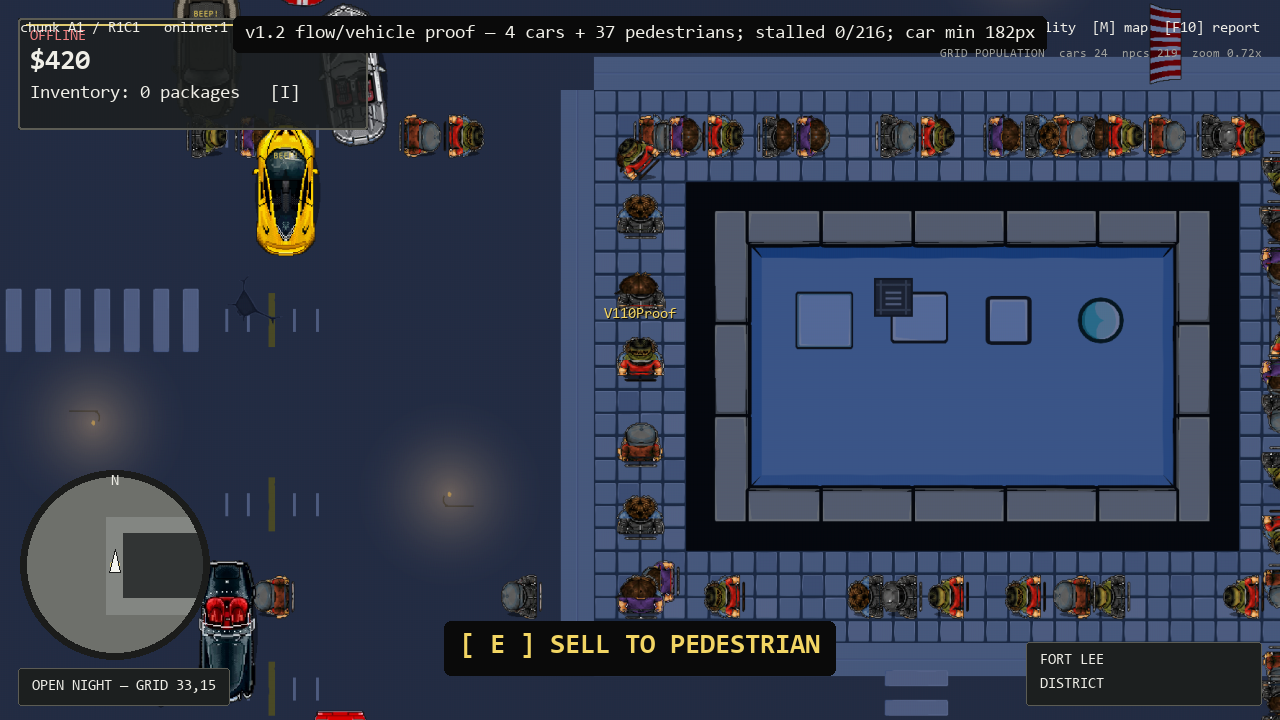
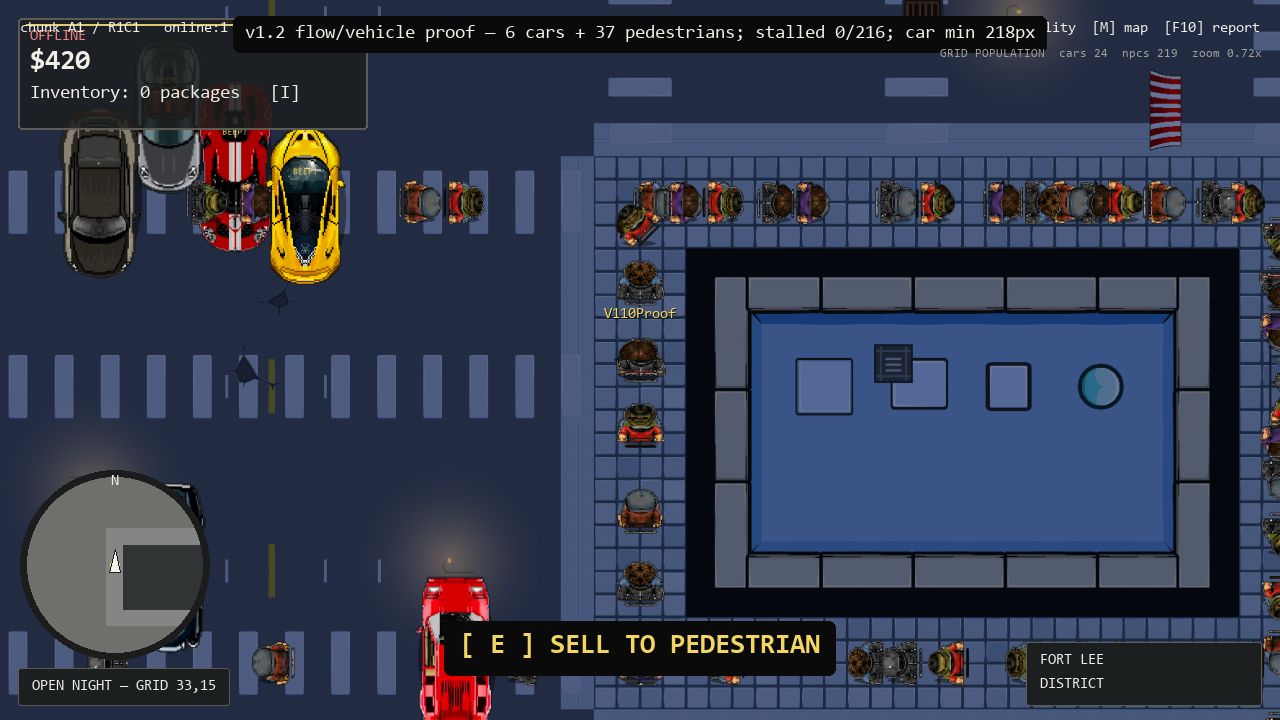
Rescale world systems for widened roads

diff --git a/client.py b/client.py
@@ -2154,8 +2154,8 @@ class Game:
         # `signal["pos"]` is the authored fixture anchor.  Keep the live
         # synchronized lamp on that exact anchor; the old (+22, -22) offset
         # visually detached the red/green state from its traffic-signal fixture.
-        pygame.draw.circle(self.screen, (18, 20, 20), (sx, sy), 8)
-        pygame.draw.circle(self.screen, (77, 210, 91) if green else (218, 64, 58), (sx, sy), 5)
+        pygame.draw.circle(self.screen, (18, 20, 20), (sx, sy), 16)
+        pygame.draw.circle(self.screen, (77, 210, 91) if green else (218, 64, 58), (sx, sy), 10)
 
     def nearest_interior(self, max_distance: float = 105.0) -> dict | None:
         local = self.players.get(self.local_id or "")
@@ -2659,7 +2659,7 @@ class Game:
 
     def draw_vehicle(self, car: RemoteVehicle) -> None:
         sx, sy = self.world_to_screen(car.render_x, car.render_y)
-        target_len = int(max(62, car.render_length * 1.38))
+        target_len = int(max(74, car.render_length * 1.65))
         if draw_car(self.screen, (sx, sy), car.angle, car.sprite_index, target_length=target_len, speed=car.speed):
             if car.horn:
                 beep = self.tiny_font.render("BEEP!", True, (245, 215, 92))
@@ -2721,10 +2721,10 @@ class Game:
             gait = 2 if moving and int((time.monotonic()-npc.anim_epoch)*8) % 2 else 0
             for lx in (10, 22):
                 pygame.draw.line(sprite, (65, 47, 34), (lx,15), (lx-gait,20), 2)
-            rotated = pygame.transform.rotozoom(sprite, -math.degrees(npc.aim), 1.0)
+            rotated = pygame.transform.rotozoom(sprite, -math.degrees(npc.aim), 1.65)
             self.screen.blit(rotated, rotated.get_rect(center=(sx, sy)))
             return
-        npc_scale = max(1, int(self.settings.get("render", {}).get("npc_scale", 2)))
+        npc_scale = max(2, int(self.settings.get("render", {}).get("npc_scale", 2)))
         draw_character(
             self.screen, (sx, sy), npc.aim, npc.appearance, scale=npc_scale,
             moving=time.monotonic() < npc.moving_until,
@@ -2835,7 +2835,7 @@ class Game:
                 continue
             appearance = normalize_character({"preset": 2 if label == "SUPPLIER" else 4})
             pygame.draw.circle(self.screen, color, (sx, sy), 28, width=3)
-            draw_character(self.screen, (sx, sy), 0.0, appearance, scale=2, moving=False, anim_time=0.0)
+            draw_character(self.screen, (sx, sy), 0.0, appearance, scale=3, moving=False, anim_time=0.0)
             title = self.small_font.render(label, True, color)
             sub = self.tiny_font.render(sublabel, True, TEXT_COLOR)
             title_rect = title.get_rect(center=(sx, sy - 52))
@@ -2848,7 +2848,7 @@ class Game:
         sx, sy = self.world_to_screen(player.render_x, player.render_y)
         if getattr(player, "in_vehicle", False) or getattr(player, "interior_id", ""):
             return
-        player_scale = max(1, int(self.settings.get("render", {}).get("player_scale", 2)))
+        player_scale = max(2, int(self.settings.get("render", {}).get("player_scale", 2)))
         moving = time.monotonic() < player.moving_until
 
         # Body orientation is independent of mouse aim. While moving it follows
@@ -2945,7 +2945,7 @@ class Game:
             else:
                 px, py, row = player.render_x, player.render_y, 0
             sx, sy = self._world_point_to_display(px, py)
-            player_scale = max(1, int(self.settings.get("render", {}).get("player_scale", 2)))
+            player_scale = max(2, int(self.settings.get("render", {}).get("player_scale", 2)))
             yoff = int((19 + 15 * player_scale) * max(0.75, float(self.camera_zoom)))
             if in_vehicle:
                 yoff += row * max(15, self.small_font.get_linesize())

diff --git a/v110_pedestrian_connectivity.py b/v110_pedestrian_connectivity.py
@@ -261,48 +261,48 @@ def _add_sidewalk_aprons(world, horizontal: list[RoadBand], vertical: list[RoadB
 
 
 def _add_midblock_zebra_art(world, crossings: list[Crosswalk]) -> int:
-    """Render new mid-block zebras with the existing white crossing-piece sprite."""
+    """Render full-width zebras for every widened-road crossing."""
     if "mark_white_crossing_piece" not in world.catalog.objects:
         return 0
     scale = float(world.cell_px) / 256.0
-    stripe_width = max(8, int(round(44 * scale)))
-    stripe_length = max(24, int(round(176 * scale)))
+    stripe_width = max(10, int(round(world.cell_px * 0.20)))
+    stripe_length = max(34, int(round(176 * scale)))
     near = int(round(40 * scale))
-    first = int(round(75 * scale))
-    spacing = max(stripe_width + 3, int(round(82 * scale)))
     added = 0
     for crossing in crossings:
-        if crossing.kind != "midblock":
-            continue
+        road_cells = crossing.road_end - crossing.road_start + 1
+        stripe_count = max(8, road_cells * 2)
+        span = road_cells * world.cell_px
+        spacing = span / stripe_count
         if crossing.axis == "x":
-            for stripe in range(8):
+            for stripe in range(stripe_count):
                 world.objects.append({
                     "asset": "mark_white_crossing_piece",
                     "gx": crossing.road_start,
                     "gy": crossing.fixed_cell,
-                    "offset_x_px": first + stripe * spacing,
+                    "offset_x_px": int(round((stripe + 0.5) * spacing - stripe_width * 0.5)),
                     "offset_y_px": near,
                     "width_px": stripe_width,
                     "height_px": stripe_length,
                     "rotation": 0,
-                    "street_marking": "zebra_midblock",
+                    "street_marking": f"zebra_{crossing.kind}",
                     "zebra_stripe_index": stripe,
                     "crosswalk_id": crossing.crosswalk_id,
                     "composition_pass": "v110_pedestrian_connectivity",
                 })
                 added += 1
         else:
-            for stripe in range(8):
+            for stripe in range(stripe_count):
                 world.objects.append({
                     "asset": "mark_white_crossing_piece",
                     "gx": crossing.fixed_cell,
                     "gy": crossing.road_start,
                     "offset_x_px": near,
-                    "offset_y_px": first + stripe * spacing,
+                    "offset_y_px": int(round((stripe + 0.5) * spacing - stripe_width * 0.5)),
                     "width_px": stripe_width,
                     "height_px": stripe_length,
                     "rotation": 90,
-                    "street_marking": "zebra_midblock",
+                    "street_marking": f"zebra_{crossing.kind}",
                     "zebra_stripe_index": stripe,
                     "crosswalk_id": crossing.crosswalk_id,
                     "composition_pass": "v110_pedestrian_connectivity",

diff --git a/tools/audit_v120_player_reports.py b/tools/audit_v120_player_reports.py
@@ -52,13 +52,19 @@ def main() -> None:
         cy = int(row.get("offset_y_px", 0)) + height / 2.0
         assert abs(cx - world.cell_px / 2.0) <= 1.0 and abs(cy - world.cell_px / 2.0) <= 1.0, row
     lane_dividers = [row for row in world.objects if str(row.get("street_marking", "")).startswith("six_lane_divider_")]
-    assert len(lane_dividers) == len(centerlines) * 4, "primary roads do not expose four dividers / six lanes"
-    assert len(centerlines) == 384 and len(lane_dividers) == 1536, "doubled wide-road markings are incomplete"
+    normal_dividers = [row for row in lane_dividers if not row.get("highway_lane_network")]
+    highway_dividers = [row for row in lane_dividers if row.get("highway_lane_network")]
+    normal_centerlines = [row for row in centerlines if not (str(row.get("street_marking", "")).endswith("horizontal") and int(row.get("gy", -1)) == 24)]
+    highway_centerlines = [row for row in centerlines if str(row.get("street_marking", "")).endswith("horizontal") and int(row.get("gy", -1)) == 24]
+    assert len(normal_dividers) == len(normal_centerlines) * 4, "primary six-lane dividers are incomplete"
+    assert len(highway_dividers) == len(highway_centerlines) * 6, "eight-lane highway dividers are incomplete"
+    assert len(centerlines) == 384 and len(lane_dividers) == 1664, "scaled wide-road markings are incomplete"
     morphology = world.data.get("road_morphology", {})
     assert morphology.get("physical_primary_road_width_cells") == 7, "primary roads are not physically wide"
     assert morphology.get("physical_central_highway_width_cells") == 11, "central highway is not physically wider"
     assert len(world.data.get("building_synthesis", {}).get("buildings", [])) == 28, "building density was not reduced"
     assert all(row.get("asset") == "mark_white_repeating_single" for row in lane_dividers), "lane lines do not use city-block art"
+    assert sum(bool(row.get("highway_lane_network")) for row in lane_dividers) == 384, "highway dividers were not rescaled"
     assert world.width * world.height == 6144 and world.data.get("playable_area_multiplier") == 2, "playable map area is not exact 2x"
     routes = v110_grid_population._build_traffic_routes(world)
     lane_pairs = {(row.get("lane_direction"), int(row.get("lane_index", 0))) for row in routes}
@@ -87,6 +93,7 @@ def main() -> None:
     assert 'self.pause_page == "controls"' in client_source
     assert 'draw_character(self.screen, (sx, sy)' in client_source
     assert 'pygame.draw.circle(self.screen, color, (sx, sy), 28' in client_source, "supplier NPC lacks final-space visibility halo"
+    assert 'car.render_length * 1.65' in client_source and 'npc_scale = max(2' in client_source
     server_source = (ROOT / "server.py").read_text(encoding="utf-8")
     assert "_traffic_should_yield_to_pedestrian" in server_source and '"horn": time.monotonic() < self.horn_until' in server_source
     assert "moved_aside" in server_source and 'allow_road = npc.kind == "pedestrian"' in server_source

diff --git a/v110_job_locations.py b/v110_job_locations.py
@@ -84,14 +84,18 @@ def _install_grid_traffic_signals(map_config: dict, world) -> None:
     except Exception:
         return
     signals = []
-    margin = max(18.0, world.cell_px * 0.22)
     for row_index, row in enumerate(horizontal):
         for col_index, col in enumerate(vertical):
-            cx, cy = world.cell_center((col.start + col.end) // 2, (row.start + row.end) // 2)
-            for arm, dx, dy, phase in (("nw", -margin, -margin, 0), ("se", margin, margin, 0),
-                                       ("ne", margin, -margin, 1), ("sw", -margin, margin, 1)):
+            corners = (
+                ("nw", col.start - 1, row.start - 1, 0),
+                ("se", col.end + 1, row.end + 1, 0),
+                ("ne", col.end + 1, row.start - 1, 1),
+                ("sw", col.start - 1, row.end + 1, 1),
+            )
+            for arm, gx, gy, phase in corners:
+                cx, cy = world.cell_center(gx, gy)
                 signals.append({"id": f"grid_signal_{row_index:02d}_{col_index:02d}_{arm}",
-                                "pos": [round(cx + dx, 3), round(cy + dy, 3)],
+                                "pos": [round(cx, 3), round(cy, 3)],
                                 "phase": phase, "orientation": arm, "grid_native": True})
     map_config["traffic_signals"] = signals
     map_config.setdefault("runtime", {})["grid_traffic_signal_count"] = len(signals)

diff --git a/v100_runtime_refinement.py b/v100_runtime_refinement.py
@@ -292,7 +292,9 @@ def apply_world_refinement(world):
         marking = str(item.get("street_marking", ""))
         if marking not in {"dashed_center_line_vertical", "dashed_center_line_horizontal"}:
             continue
-        for divider_index, displacement in enumerate((-128, -64, 64, 128), start=1):
+        highway = marking.endswith("horizontal") and int(item.get("gy", -1)) == 24
+        displacements = (-528, -352, -176, 176, 352, 528) if highway else (-299, -149, 149, 299)
+        for divider_index, displacement in enumerate(displacements, start=1):
             divider = dict(item)
             divider["asset"] = "mark_white_repeating_single"
             divider["width_px"] = 7
@@ -300,6 +302,7 @@ def apply_world_refinement(world):
             divider["street_marking"] = f"six_lane_divider_{'vertical' if marking.endswith('vertical') else 'horizontal'}"
             divider["lane_divider_index"] = divider_index
             divider["six_lane_network"] = True
+            divider["highway_lane_network"] = highway
             if marking.endswith("vertical"):
                 divider["offset_x_px"] = world.cell_px // 2 + displacement - 3
                 divider["offset_y_px"] = (world.cell_px - divider["height_px"]) // 2

diff --git a/v110_vehicle_proportions.py b/v110_vehicle_proportions.py
@@ -23,9 +23,9 @@ RENDER_META_SCALE = 3.00
 # 2.65 value fell to 66% after the visual enlargement and failed the runtime gate.
 # The player fleet's shortest compact body is 38/44 of its authored render
 # length, so 3.75 keeps even that worst case above the 78% runtime contract.
-COLLISION_LENGTH_META_SCALE = 3.75
-COLLISION_WIDTH_META_SCALE = 2.90
-CLIENT_RENDER_MULTIPLIER = 1.38
+COLLISION_LENGTH_META_SCALE = 4.00
+COLLISION_WIDTH_META_SCALE = 3.35
+CLIENT_RENDER_MULTIPLIER = 1.65
 GROUND_PLAYER_TARGET_HEIGHT_PX = 58.0
 MIN_SEDAN_TO_PLAYER_LENGTH_RATIO = 3.25
 MIN_EXPECTED_SEDAN_LENGTH_PX = GROUND_PLAYER_TARGET_HEIGHT_PX * MIN_SEDAN_TO_PLAYER_LENGTH_RATIO
@@ -42,7 +42,7 @@ def scaled_meta(meta: dict) -> dict:
 
 def expected_client_render_length(server_render_length: float) -> float:
     """Mirror client.draw_vehicle's current target-length contract for audits."""
-    return max(62.0, float(server_render_length) * CLIENT_RENDER_MULTIPLIER)
+    return max(74.0, float(server_render_length) * CLIENT_RENDER_MULTIPLIER)
 
 
 def expected_sedan_to_player_ratio(server_render_length: float, player_height_px: float = GROUND_PLAYER_TARGET_HEIGHT_PX) -> float:

diff --git a/gameplay/settings.py b/gameplay/settings.py
@@ -69,13 +69,13 @@ DEFAULTS = {
     "engine": {"ai_profile_version": 2, "client_profile_version": 282},
     "debug": {"show_camera_lookahead": False},
     "render": {
-        "player_scale": 1,
+        "player_scale": 2,
         "jump_scale_multiplier": 1.35,
         "jump_lift_px": 10,
         "double_jump_scale_multiplier": 1.50,
         "double_jump_lift_px": 14,
-        "npc_scale": 1,
-        "cyclist_rider_scale": 1,
+        "npc_scale": 2,
+        "cyclist_rider_scale": 2,
         "fractional_zoom_filter": "smooth",
         "camera_pixel_snap": True,
         "filtered_rotation": True,
@@ -90,7 +90,7 @@ DEFAULTS = {
     },
     "npc": {
         "pedestrians_per_route": 3,
-        "personal_space_px": 22.0,
+        "personal_space_px": 36.0,
         "active_radius_px": 1800.0,
         "far_update_hz": 5.0,
         "runover_min_speed_mph": 30.0,

diff --git a/tools/audit_v110_traffic_recovery.py b/tools/audit_v110_traffic_recovery.py
@@ -200,7 +200,7 @@ def main() -> None:
         raise RuntimeError(f"cars left authoritative road collision: {sorted(blocked_seen)[:8]}")
     if overlap_seen:
         raise RuntimeError(f"vehicle bodies overlapped during sustained run: {sorted(overlap_seen)[:8]}")
-    expected_offsets = [game.grid_world.cell_px * ratio for ratio in (0.25, 0.70, 1.10)]
+    expected_offsets = [game.grid_world.cell_px * ratio for ratio in (0.58, 1.75, 2.92)]
     if len(route_offsets) != 3 or any(abs(actual - expected) > 0.01 for actual, expected in zip(route_offsets, expected_offsets)):
         raise RuntimeError(f"six-lane separation is not exact: offsets={route_offsets}, expected={expected_offsets}")
 

diff --git a/grid_runtime.py b/grid_runtime.py
@@ -346,14 +346,6 @@ def _wide_road_markings() -> list[dict]:
                 "width_px": 18, "height_px": 150, "rotation": 90,
                 "street_marking": "dashed_center_line_horizontal",
             })
-    for cx in (11, 29, 44, 58):
-        for cy in (9, 24, 39):
-            for stripe in range(-2, 3):
-                objects.append({
-                    "asset": "mark_white_crossing_piece", "gx": cx + stripe, "gy": cy,
-                    "width_px": 38, "height_px": 150, "rotation": 0,
-                    "street_marking": "zebra_highway_crossing",
-                })
     return objects
 
 

diff --git a/v110_grid_population.py b/v110_grid_population.py
@@ -79,7 +79,7 @@ def _segment_surface(world, a: tuple[float, float], b: tuple[float, float], coll
 def _build_traffic_routes(world) -> list[dict]:
     rows, cols = _major_road_centers(world)
     routes: list[dict] = []
-    lane_offsets = (world.cell_px * 0.25, world.cell_px * 0.70, world.cell_px * 1.10)
+    lane_offsets = (world.cell_px * 0.58, world.cell_px * 1.75, world.cell_px * 2.92)
     turn_radius = max(16.0, world.cell_px * 0.17)
     speed_limit = max(80.0, world.cell_px * 0.86)
     for row_index in range(len(rows) - 1):
